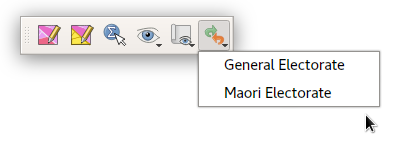
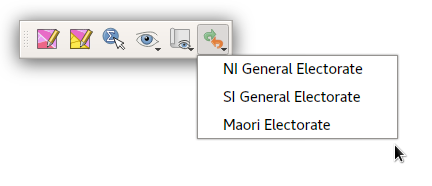
UI Design Docs version 3

Changed region(s): [[0.0296, 0.1074, 0.9481, 0.7517], [0.8889, 0.7785, 0.9481, 0.8859]]

diff --git a/documentation/ui_design/mockups/mock_interface.py b/documentation/ui_design/mockups/mock_interface.py
@@ -88,8 +88,10 @@ switch_tool_button.setToolTip('Switch Task')
 switch_tool_button.setIcon(QIcon('/home/nyall/dev/redistricting/images/switch_task.svg'))
 switch_tool_button.setPopupMode(QToolButton.InstantPopup)
 switch_menu = QMenu()
-switch_general_electorate_action = QAction('General Electorate')
-switch_menu.addAction(switch_general_electorate_action)
+switch_ni_general_electorate_action = QAction('NI General Electorate')
+switch_menu.addAction(switch_ni_general_electorate_action)
+switch_si_general_electorate_action = QAction('SI General Electorate')
+switch_menu.addAction(switch_si_general_electorate_action)
 switch_maori_electorate_action = QAction('Maori Electorate')
 switch_menu.addAction(switch_maori_electorate_action)
 
@@ -117,6 +119,14 @@ class ElectorateSelectionDialog(QDialog):
         
         l = QVBoxLayout()
         
+        l.addWidget(QLabel('Recently used electorates'))
+        recent_list = QListWidget()
+        recent_list.setMaximumHeight(100)
+        for i in range(5):
+            recent_list.addItem( 'Electorate {}'.format(i))
+        l.addWidget(recent_list,0)
+        
+        l.addWidget(QLabel('Available electorates'))
         search = QgsFilterLineEdit()
         search.setShowSearchIcon(True)
         search.setPlaceholderText('Search for electorate')
@@ -126,12 +136,14 @@ class ElectorateSelectionDialog(QDialog):
         for i in range(10):
             list.addItem( 'Electorate {}'.format(i))
             
-        l.addWidget(list)
+        l.addWidget(list,10)
         
         bb = QDialogButtonBox(QDialogButtonBox.Ok | QDialogButtonBox.Cancel)
         l.addWidget(bb)
         bb.rejected.connect(self.reject)
         bb.accepted.connect(self.accept)
+        
+        bb.addButton("Select from Map", QDialogButtonBox.ActionRole)
             
         self.setLayout(l)
         

diff --git a/documentation/ui_design/mockups/mock_dock.py b/documentation/ui_design/mockups/mock_dock.py
@@ -96,25 +96,15 @@ class CreateElectorateDialog(QDialog):
     def __init__(self, parent=None):
         super().__init__(parent)
         
-        self.setWindowTitle('Create New Electorate')
+        self.setWindowTitle('Create New Maori Electorate')
         
         l = QVBoxLayout()
-        label = QLabel('Enter name for new electorate:')
+        label = QLabel('Enter name for new Maori electorate:')
         l.addWidget(label)
         
         name = QLineEdit()
         name.setPlaceholderText('Electorate name')
         l.addWidget(name)
-        
-        frame = QGroupBox('Electorate Type')
-        l2 = QVBoxLayout()
-        radio = QRadioButton("General North Island")
-        radio.setChecked(True)
-        l2.addWidget(radio)  
-        radio = QRadioButton("Maori")
-        l2.addWidget(radio)
-        frame.setLayout(l2)
-        l.addWidget(frame)
                 
         bb = QDialogButtonBox(QDialogButtonBox.Ok | QDialogButtonBox.Cancel)
         l.addWidget(bb)
@@ -126,7 +116,7 @@ class CreateElectorateDialog(QDialog):
         
 def create_electorate():
     dlg = CreateElectorateDialog(iface.mainWindow())
-    dlg.setWindowTitle('Create New Electorate')
+    dlg.setWindowTitle('Create New Maori Electorate')
     dlg.show()
     
     

diff --git a/documentation/ui_design/ui_design.md b/documentation/ui_design/ui_design.md
@@ -42,7 +42,7 @@ This document details the UI Design for the LINZ Redistricting QGIS Plugin.
 
 ## Document Version
 
-- Current: 2.0.0 (2018-04-09)
+- Current: 3.0.0 (2018-04-17)
 
 # Links
 
@@ -132,9 +132,13 @@ The Redistrict Selected Meshblocks tool will only be enabled when a selection ex
 
 The  Redistrict Selected Meshblocks tool operates on the electorate type selected using the [Task Switcher](#task_switcher) control - e.g. if the current task is set to Maori electorates, then the redistricting tool will alter the meshblocks assigned Maori electorate.
 
-After clicking the action, the user is then given a selection of available electorate districts to reassign the selection to. The dialog lists all available electorates, and includes a search widget for filtering the list:
+After clicking the action, the user is then given a selection of available electorate districts to reassign the selection to. The dialog lists all available electorates, and includes a search widget for filtering the list. Electorates with NO assigned meshblocks appear at the top of the list for quick access. A list of the most recently used electorates is shown at the top of the dialog for quick access, and the dialog defaults to selecting the **most recently** used electorate.
 
 ![Select electorate dialog](images/select_electorate.png)
+
+Additionally, the dialog includes an option to `Select from Map`. If this option is clicked, the dialog will close and the map mouse cursor will change to a "electorate picking" tool, allowing the user to click an electorate within the map. After a click is made in this mode, the user is presented with a confirmation dialog before the new district is locked in.
+
+Closing the electorate dialog without accepting a new electorate OR clicking `Select from Map` cancels the operation.
 
 After accepting a new electorate, the new electorate assignment will be pushed into the layer's edit buffer. The changes can be undone and redone until they are committed to the layer permanently.
 
@@ -191,7 +195,7 @@ The final action available in the Redistricting Toolbar is the Task Switcher act
 
 ![Task Switcher](images/task_switcher.png)
 
-The `Task Switcher` allows the user to select which electorate type they are currently working with. Clicking the action shows a drop-down menu giving a choice of electorate types:
+The `Task Switcher` allows the user to select which electorate type (General North Island, General South Island, or Maori) they are currently working with. Clicking the action shows a drop-down menu giving a choice of electorate types:
 
 ![Task Switcher Menu](images/task_switcher_menu.png)
 
@@ -311,7 +315,7 @@ The `Manage Electorates` menu allows for management of electorates, including ad
 
 #### Create New Electorate (B10)
 
-The `Create New Electorate` action allows for users to create a new electoral district. After selecting the option, the user is then prompted to enter a name and type for the new electorate. The district type will default to the current session electorate district type:
+The `Create New Electorate` action allows for users to create a new electoral district. After selecting the option, the user is then prompted to enter a name for the new electorate. The electorate type will be set to the current session electorate district type, and this is shown in the title bar of the dialog for clarity:
 
 ![Name New Electorate](images/new_electorate.png)
 
@@ -325,6 +329,7 @@ The `Deprecate Electorate` action allows users to mark an electorate as 'depreca
 
 This dialog will show ALL electorates, including those which have already been deprecated. Currently deprecated electorates are marked with an * prefix. Selecting them from the dialog will present the user with the choice of "un-deprecating" the electorate.
 
+If the user selects an electorate which currently has meshblocks assigned to it, they will be presented with an error message showing the assigned meshblocks, and the deprecation will not be permitted.
 
 ### Database Menu
 
@@ -347,6 +352,8 @@ The `Import Master Database` action is used to completely replace the user's cur
 
 ![Import Database Warning](images/import_database.png)
 
+Before the master database is imported, the user is asked to select a location for a full backup of the current database. This is performed before importing the new master database for security.
+
 ### Update Meshblock Table (B4, F16)
 
 Triggering the `Update Meshblock Table` will prompt the user to select a new meshblock table to import. Importing a new meshblock table causes the following operations to occur:
@@ -357,13 +364,20 @@ Triggering the `Update Meshblock Table` will prompt the user to select a new mes
 - Electorate boundaries will be recalculated based on the new meshblocks, and ALL stored populations obtained from the Statistics NZ API will be cleared.
 - Logging operations will be stored using the new meshblock version id (see [View Log](#view-log)).
 
-A new table view is opened showing just the meshblocks which have been changed since the previous version of the meshblock table. This allows users to step through this table and move the map view to see the affected meshblocks and how the change has impacted the districting operations.
+A new table view is opened showing just the meshblocks which have been changed since the previous version of the meshblock table (including meshblocks which have been removed). This allows users to step through this table and move the map view to see the affected meshblocks and how the change has impacted the districting operations.
 
 ### Export Districts
 
 The `Export Districts` action will allow users to create a dissolved copy of the current electorate districts (refs F6, F15). Selecting this action will trigger a file save dialog prompting the user to select a file location for the exported districts.
 
 Upon acceptance, the application will spatially dissolve both the General Electorates and Maori Electorates. A geopackage database will be created containing spatial tables of these electorates, and a separate table detailing districts assigned to each meshblock. Additionally the user event log will also be included as a non-spatial table (see [View Log](#view-log)).
+
+The mesh block to electorate assignments will be exported in a table of the format:
+
+Meshblock | NI General | SI General | Maori
+-----------------------------------------------------------
+MB1 | electorate 1 |  | electorate 2
+MB2 | electorate 3 |  | electorate 5
 
 The export process will occur in a background task to allow users to continue using the application while the export is performed.
 
